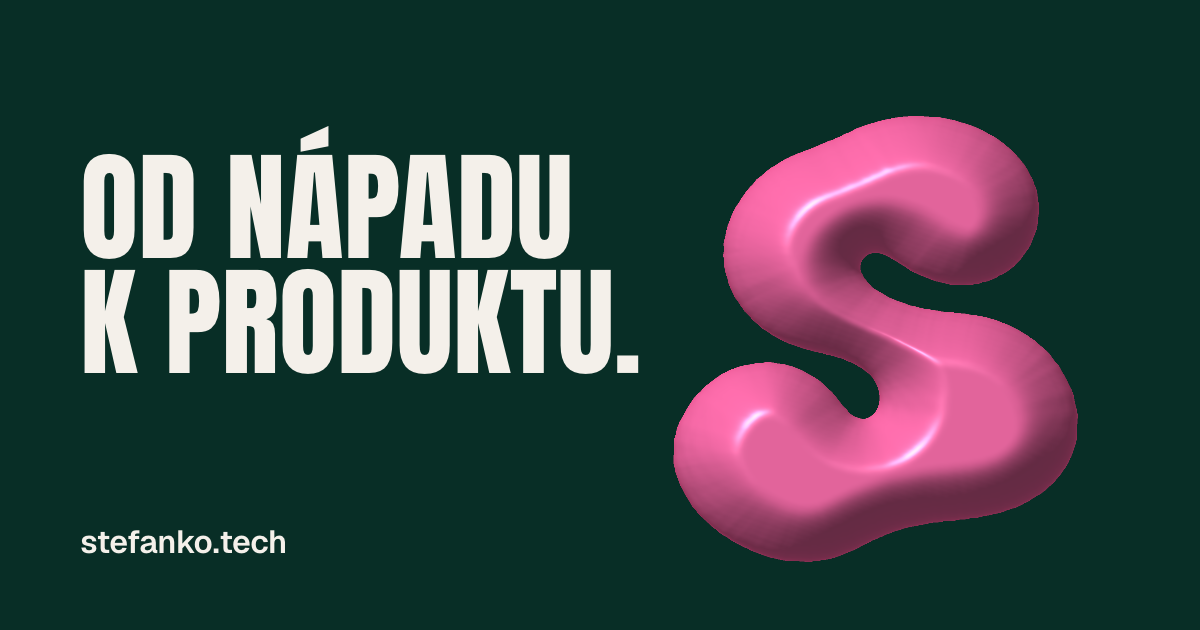
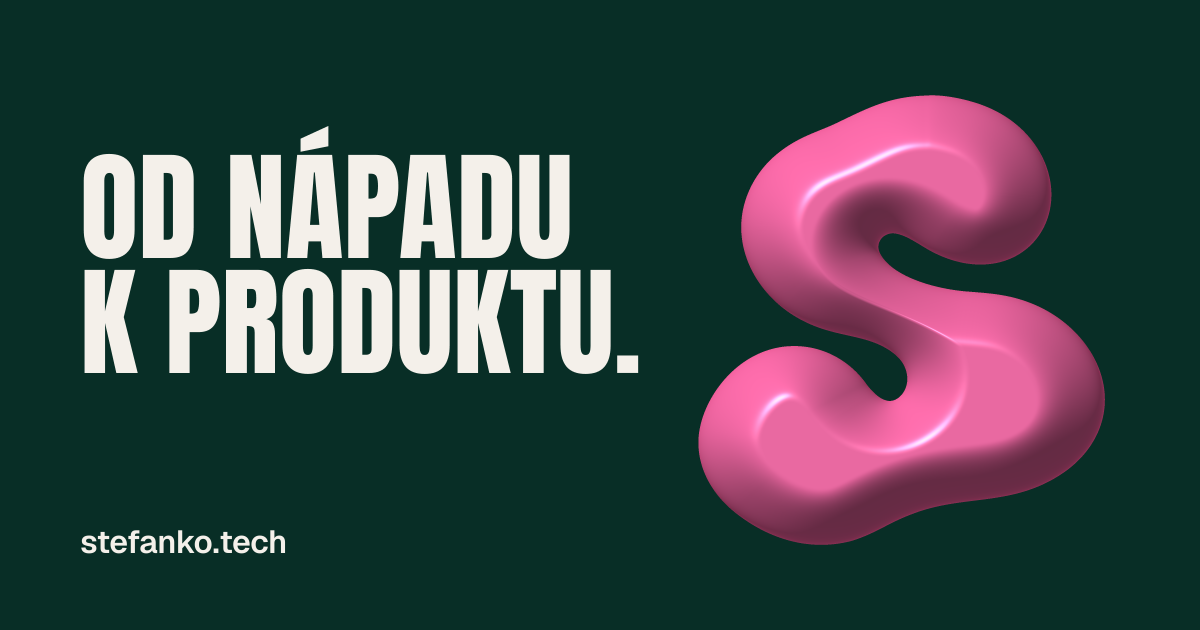
fix: render the OG Blob S from an analytic distance field at 4x
The first share images had faint radial streaks and, at 1:1, facets in the
shading and a stair-stepped silhouette. The cause is in the live hero's data,
not the shader: public/assets/logo-distance.png was rasterised from a bitmap and
its gradient wobbles along the contour. For the export the same field is now
rebuilt from the brand outline (blob-s-footer-logo.svg) at 3072 px with the
identical mapping and encoding, and verified against the live texture before
rendering (rms 0.45 texel — the original's own rasterisation noise).

The still uses the hero's idle material and lights unchanged (normal footprint
back to the live .012), frozen at a settled moment of the sway (t = 57.05 s,
where the drift, rotation and tilt terms are near zero), rendered at 4x device
scale and box-filtered to 1200x630 by a dependency-free PNG codec. Output is
deterministic. The live shader and texture are untouched.

Changed region(s): [[0.555, 0.1508, 0.925, 0.9048]]

diff --git a/scripts/new-web/README.md b/scripts/new-web/README.md
@@ -46,11 +46,18 @@ committed and rendered by:
 pnpm build:og          # = node scripts/new-web/og/render-og.mjs
 ```
 
-The pink S is the site's own WebGL model (`jelly-logo.js`) in its finished
-resting pose, screenshotted from headless Google Chrome (macOS path by default,
-override with `CHROME=/path/to/chrome`); headline in Anton, wordmark in Geist,
-both from `fonts.css`. When the artwork changes, bump `VERSION` in the script and
-the file names in `index.html` + `build-english.py` — share caches key on the URL.
+The pink S is the site's own WebGL model (`jelly-logo.js`, idle mode as the
+hero shows it after the intro) frozen at a settled moment of its sway, rendered
+in headless Google Chrome (macOS path by default, override with
+`CHROME=/path/to/chrome`) at 4× and box-filtered down; headline in Anton,
+wordmark in Geist, both from `fonts.css`. For the still, the shader reads an
+analytic distance field built from `assets/blob-s-footer-logo.svg`
+(`og/distance-texture.mjs`) instead of the rasterised 768 px
+`logo-distance.png`, which is what gives the hero its faint radial streaks; the
+script verifies that field against the live texture before rendering, so the
+shape is provably the one on the site. The output is deterministic. When the
+artwork changes, bump `VERSION` in the script and the file names in
+`index.html` + `build-english.py` — share caches key on the URL.
 
 The old Next.js site is archived under `/old-web` and `/old-web/cs` with its
 assets in `public/old-web/assets/`; it is `noindex` and not in the sitemap.
